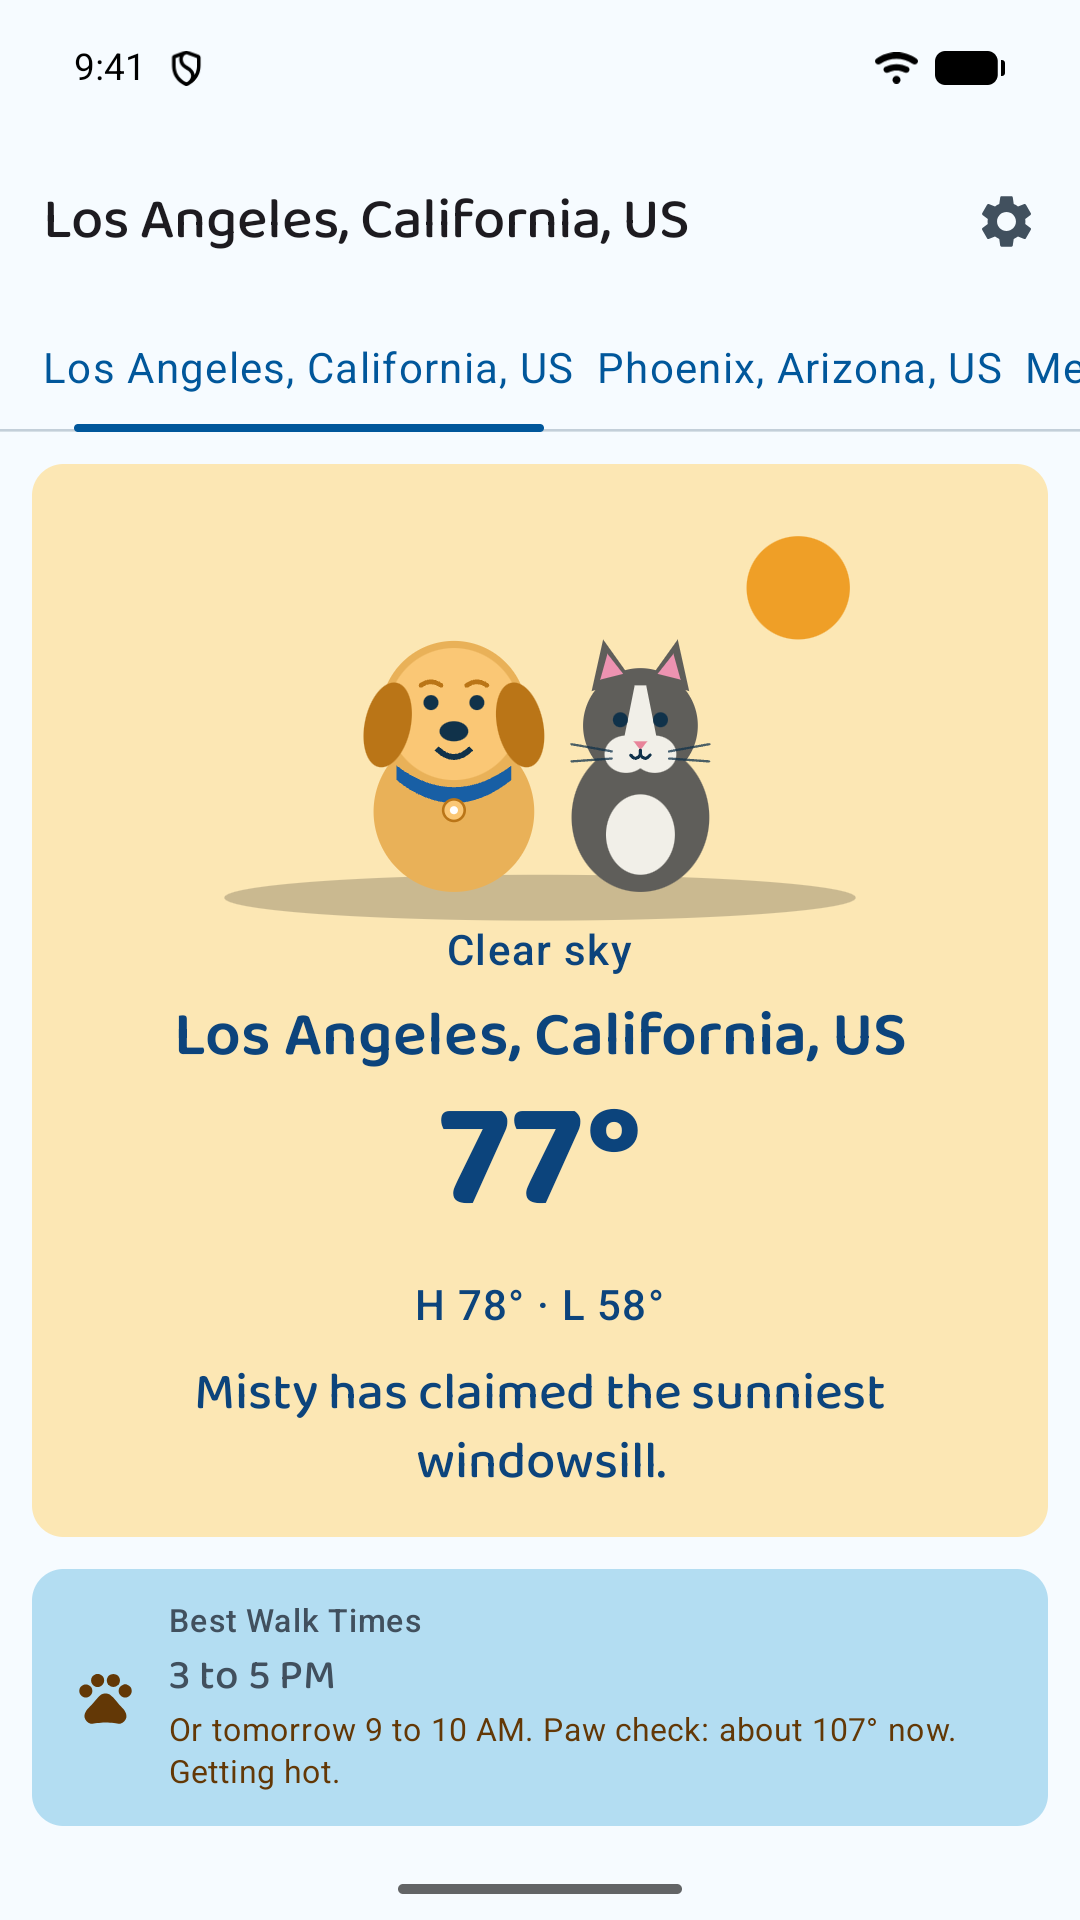
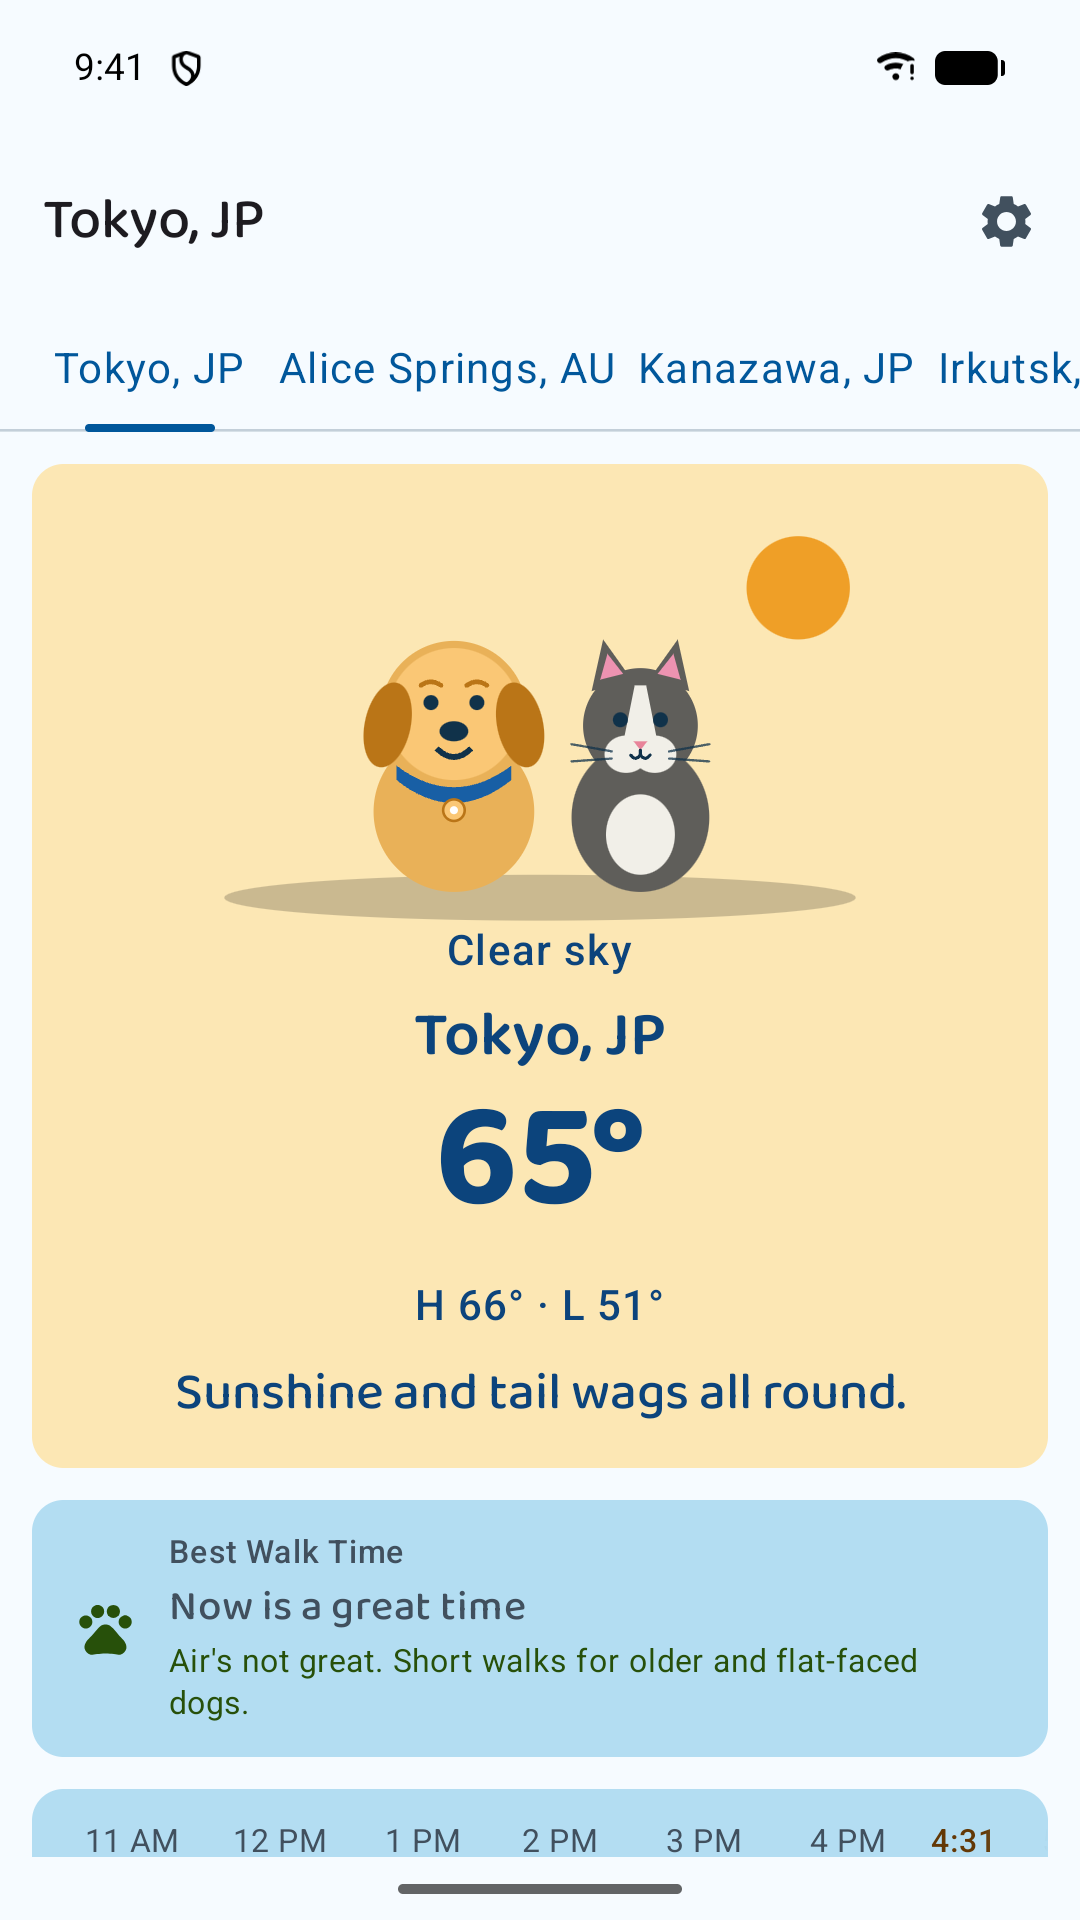
Screenshots: a fresh Play Store and README set from 1.0.5
The Play set was from build 4 on 11-12, before the walk card's 11-16
change, so it showed "Or tomorrow" as the second option. These are
from the 1.0.5 release build with live weather, on the same emulators:
Tokyo, Alice Springs (a new hot pavement shot), Los Angeles at night,
the radar over Japan, a day's hours and Settings, and on the tablet
Kanazawa in portrait and Beijing's bad air in landscape. The README's
own screenshots, from 10-31, are replaced with the same shots.

diff --git a/README.md b/README.md
@@ -236,13 +236,13 @@ WorkManager, and CI on GitHub Actions.
 
 | Pets, walk time & hourly | Today tiles & air quality | Radar & rest of week | Day detail | Settings |
 |---|---|---|---|---|
-| ![Sunny and Misty react to the weather, with best walk time and the hourly strip](./screenshots/current.png) | ![Today's tiles: feels like, wind, humidity and Paw check in pairs, then Air quality, daylight and Misty's View across the full width](./screenshots/today.png) | ![Animated RainViewer radar and the rest of the week](./screenshots/forecast.png) | ![Hour-by-hour temperature and rain chance for a day](./screenshots/day.png) | ![Settings with units, I have a dog and notifications](./screenshots/settings.png) |
+| ![Sunny and Misty in the sun on a clear day in Tokyo, with "Now is a great time" and the hourly strip](./screenshots/current.png) | ![Today's tiles in Alice Springs: feels like, wind, Fluff Factor and Paw check at about 146°, dangerously hot, in pairs, then Air quality and daylight across the full width](./screenshots/today.png) | ![Animated RainViewer radar with rain over Japan, and the rest of the week](./screenshots/forecast.png) | ![Hour-by-hour temperature and rain chance for a day](./screenshots/day.png) | ![Settings with units, I have a dog and notifications](./screenshots/settings.png) |
 
 On tablets and in landscape, the pets sit beside today's details and the week splits into two columns:
 
 ![Phone in landscape on a rainy day, with the pets beside today's details](./screenshots/landscape.png)
 
-![Tablet layout with the pets beside today's tiles, Air quality across the full width](./screenshots/tablet.png)
+![Tablet in portrait: Kanazawa in drizzle, with the pets beside today's tiles, then the hourly strip and the rain chart](./screenshots/tablet.png)
 
 ## Getting started
 
@@ -300,11 +300,14 @@ build artifacts.
 emulator with a clean status bar:
 
 - Phone, 1080 × 1920 (9:16; Play rejects anything longer than 2:1, so not the Pixel's 1080 × 2400).
-  Upload in this order: `01-welcome`, `02-today` (the walk times and a second option),
-  `03-walk-tiles` (the tiles and Paw Check), `04-night`, `05-radar-week`, `06-day-detail`,
-  `07-settings`. Retaken 11-12 with build 4.
-- Tablet: `tablet-01` (1600 × 2560, portrait) and `tablet-02` (2560 × 1600, landscape), for both
-  the 7-inch and 10-inch tablet slots.
+  Upload in this order: `01-welcome`, `02-today` (Tokyo, "Now is a great time"),
+  `03-hot-pavement` (Alice Springs, Paw check about 146°, dangerously hot), `04-tiles`,
+  `05-night` (Los Angeles at night, with tomorrow's walk times and a second option),
+  `06-radar-week` (rain over Japan), `07-day-detail`, `08-settings`. Retaken 11-18 with the
+  1.0.5 release build (the one on Google Play), live weather and a 9:41 demo status bar.
+- Tablet, on the Medium_Tablet emulator: `tablet-01` (1600 × 2560, portrait, Kanazawa in drizzle)
+  and `tablet-02` (2560 × 1600, landscape, Beijing with very unhealthy air: "Smoky air. Potty
+  breaks only."), for both the 7-inch and 10-inch tablet slots.
 
 ## Architecture & tech stack
 
